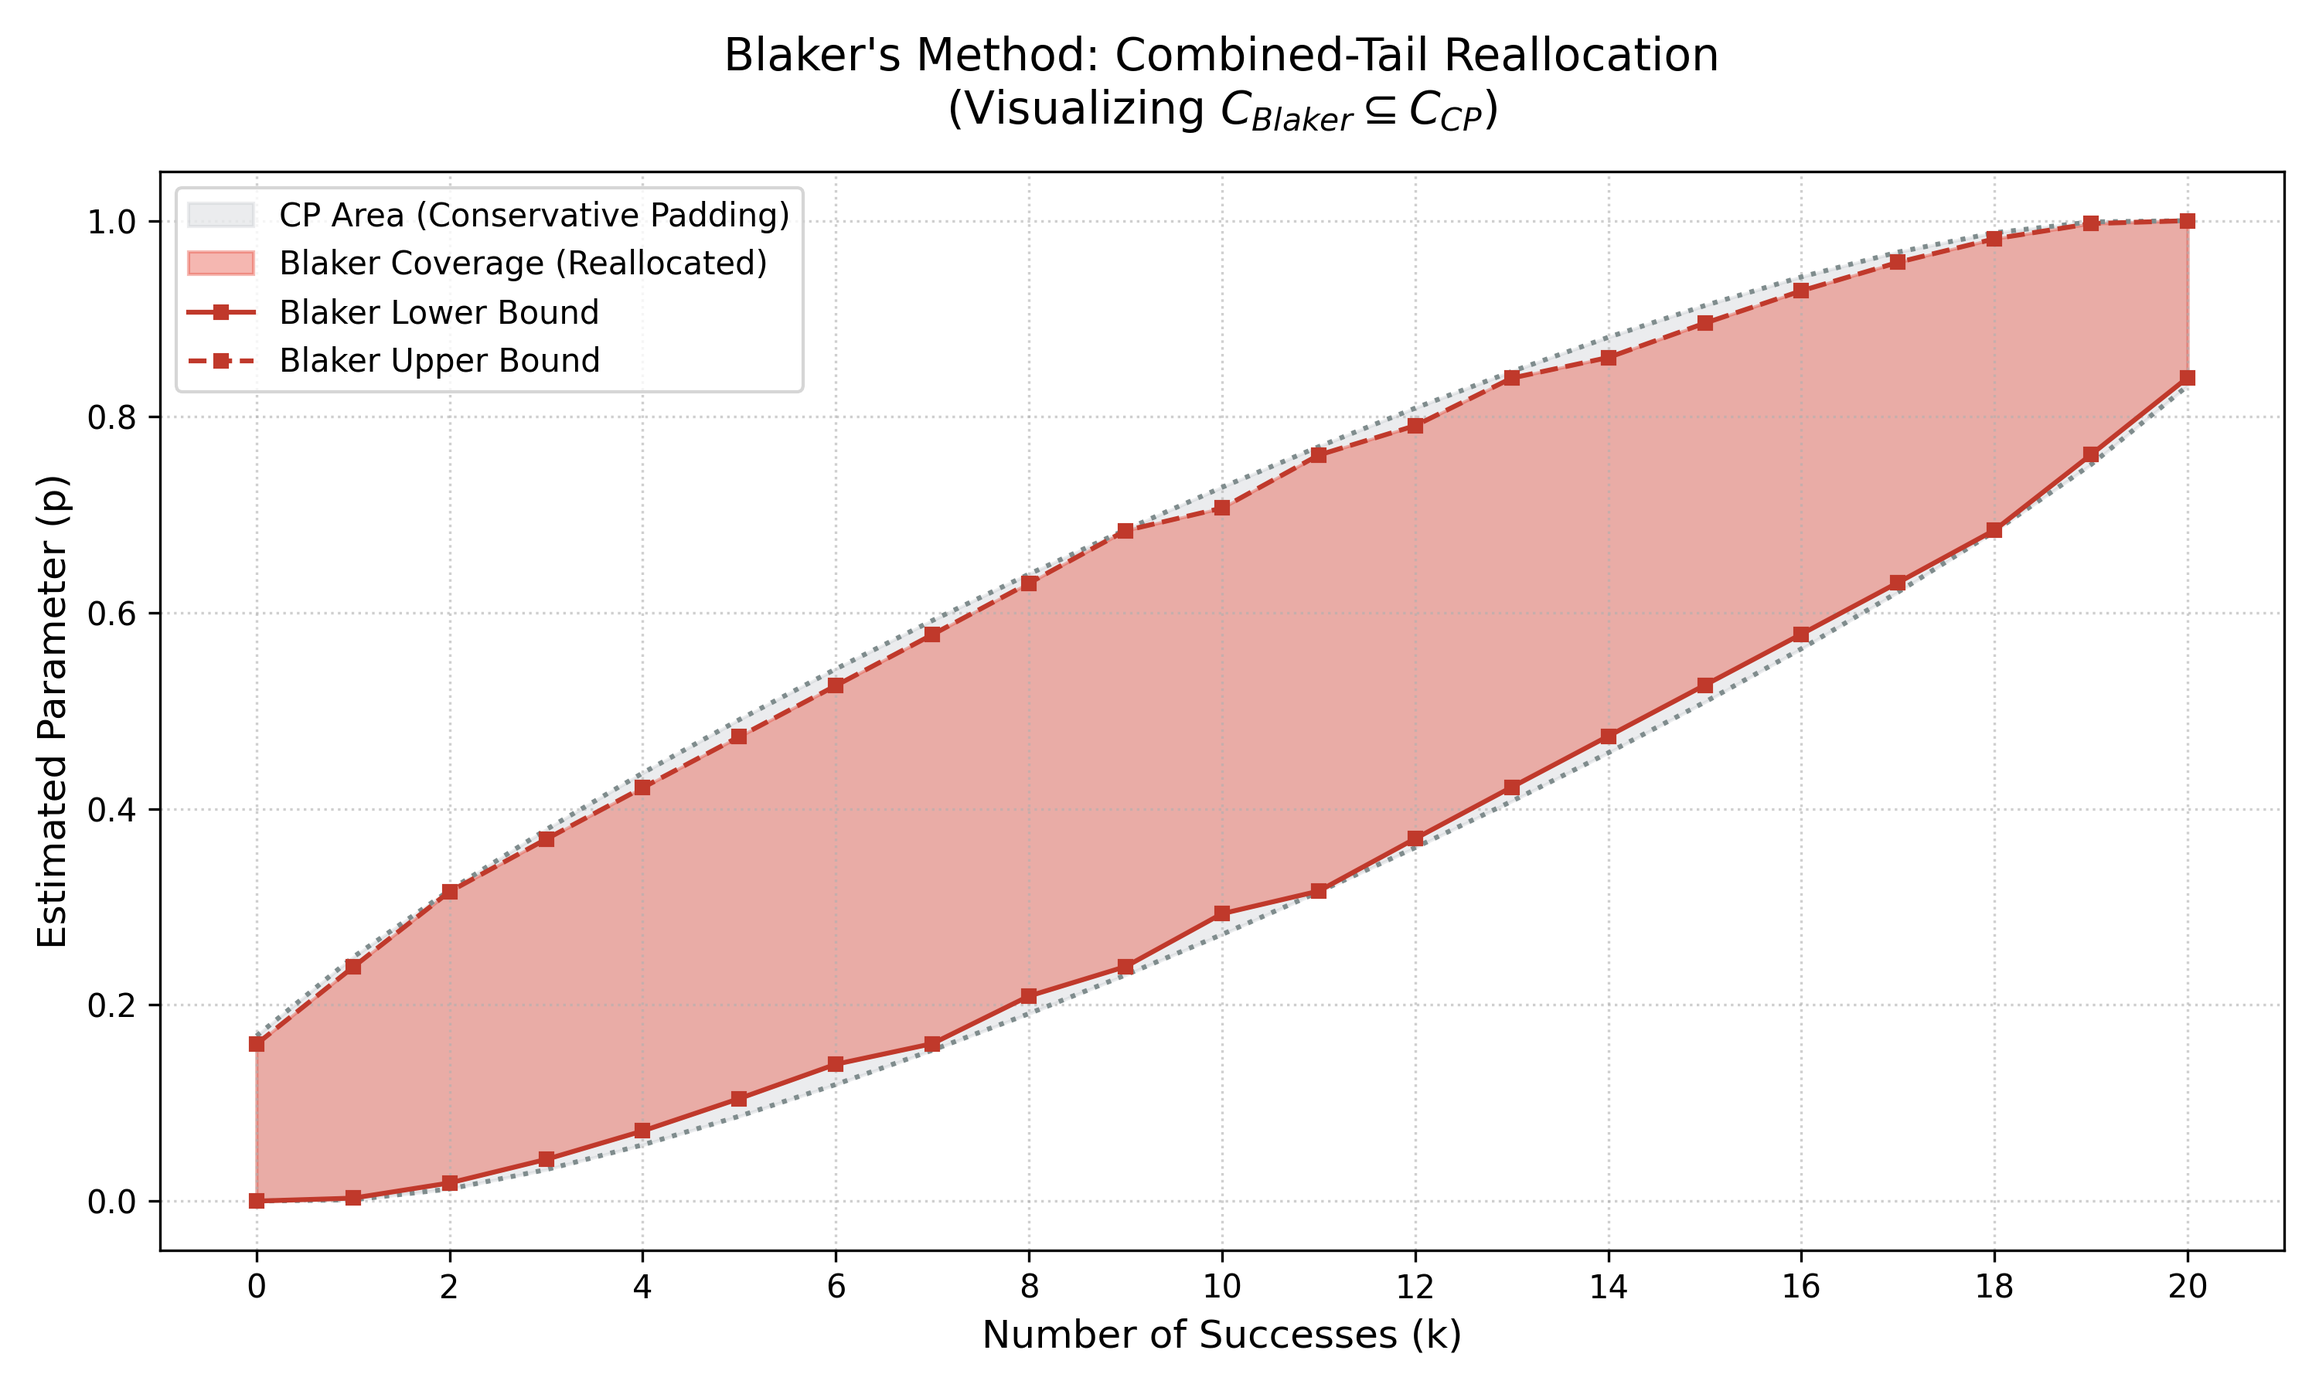
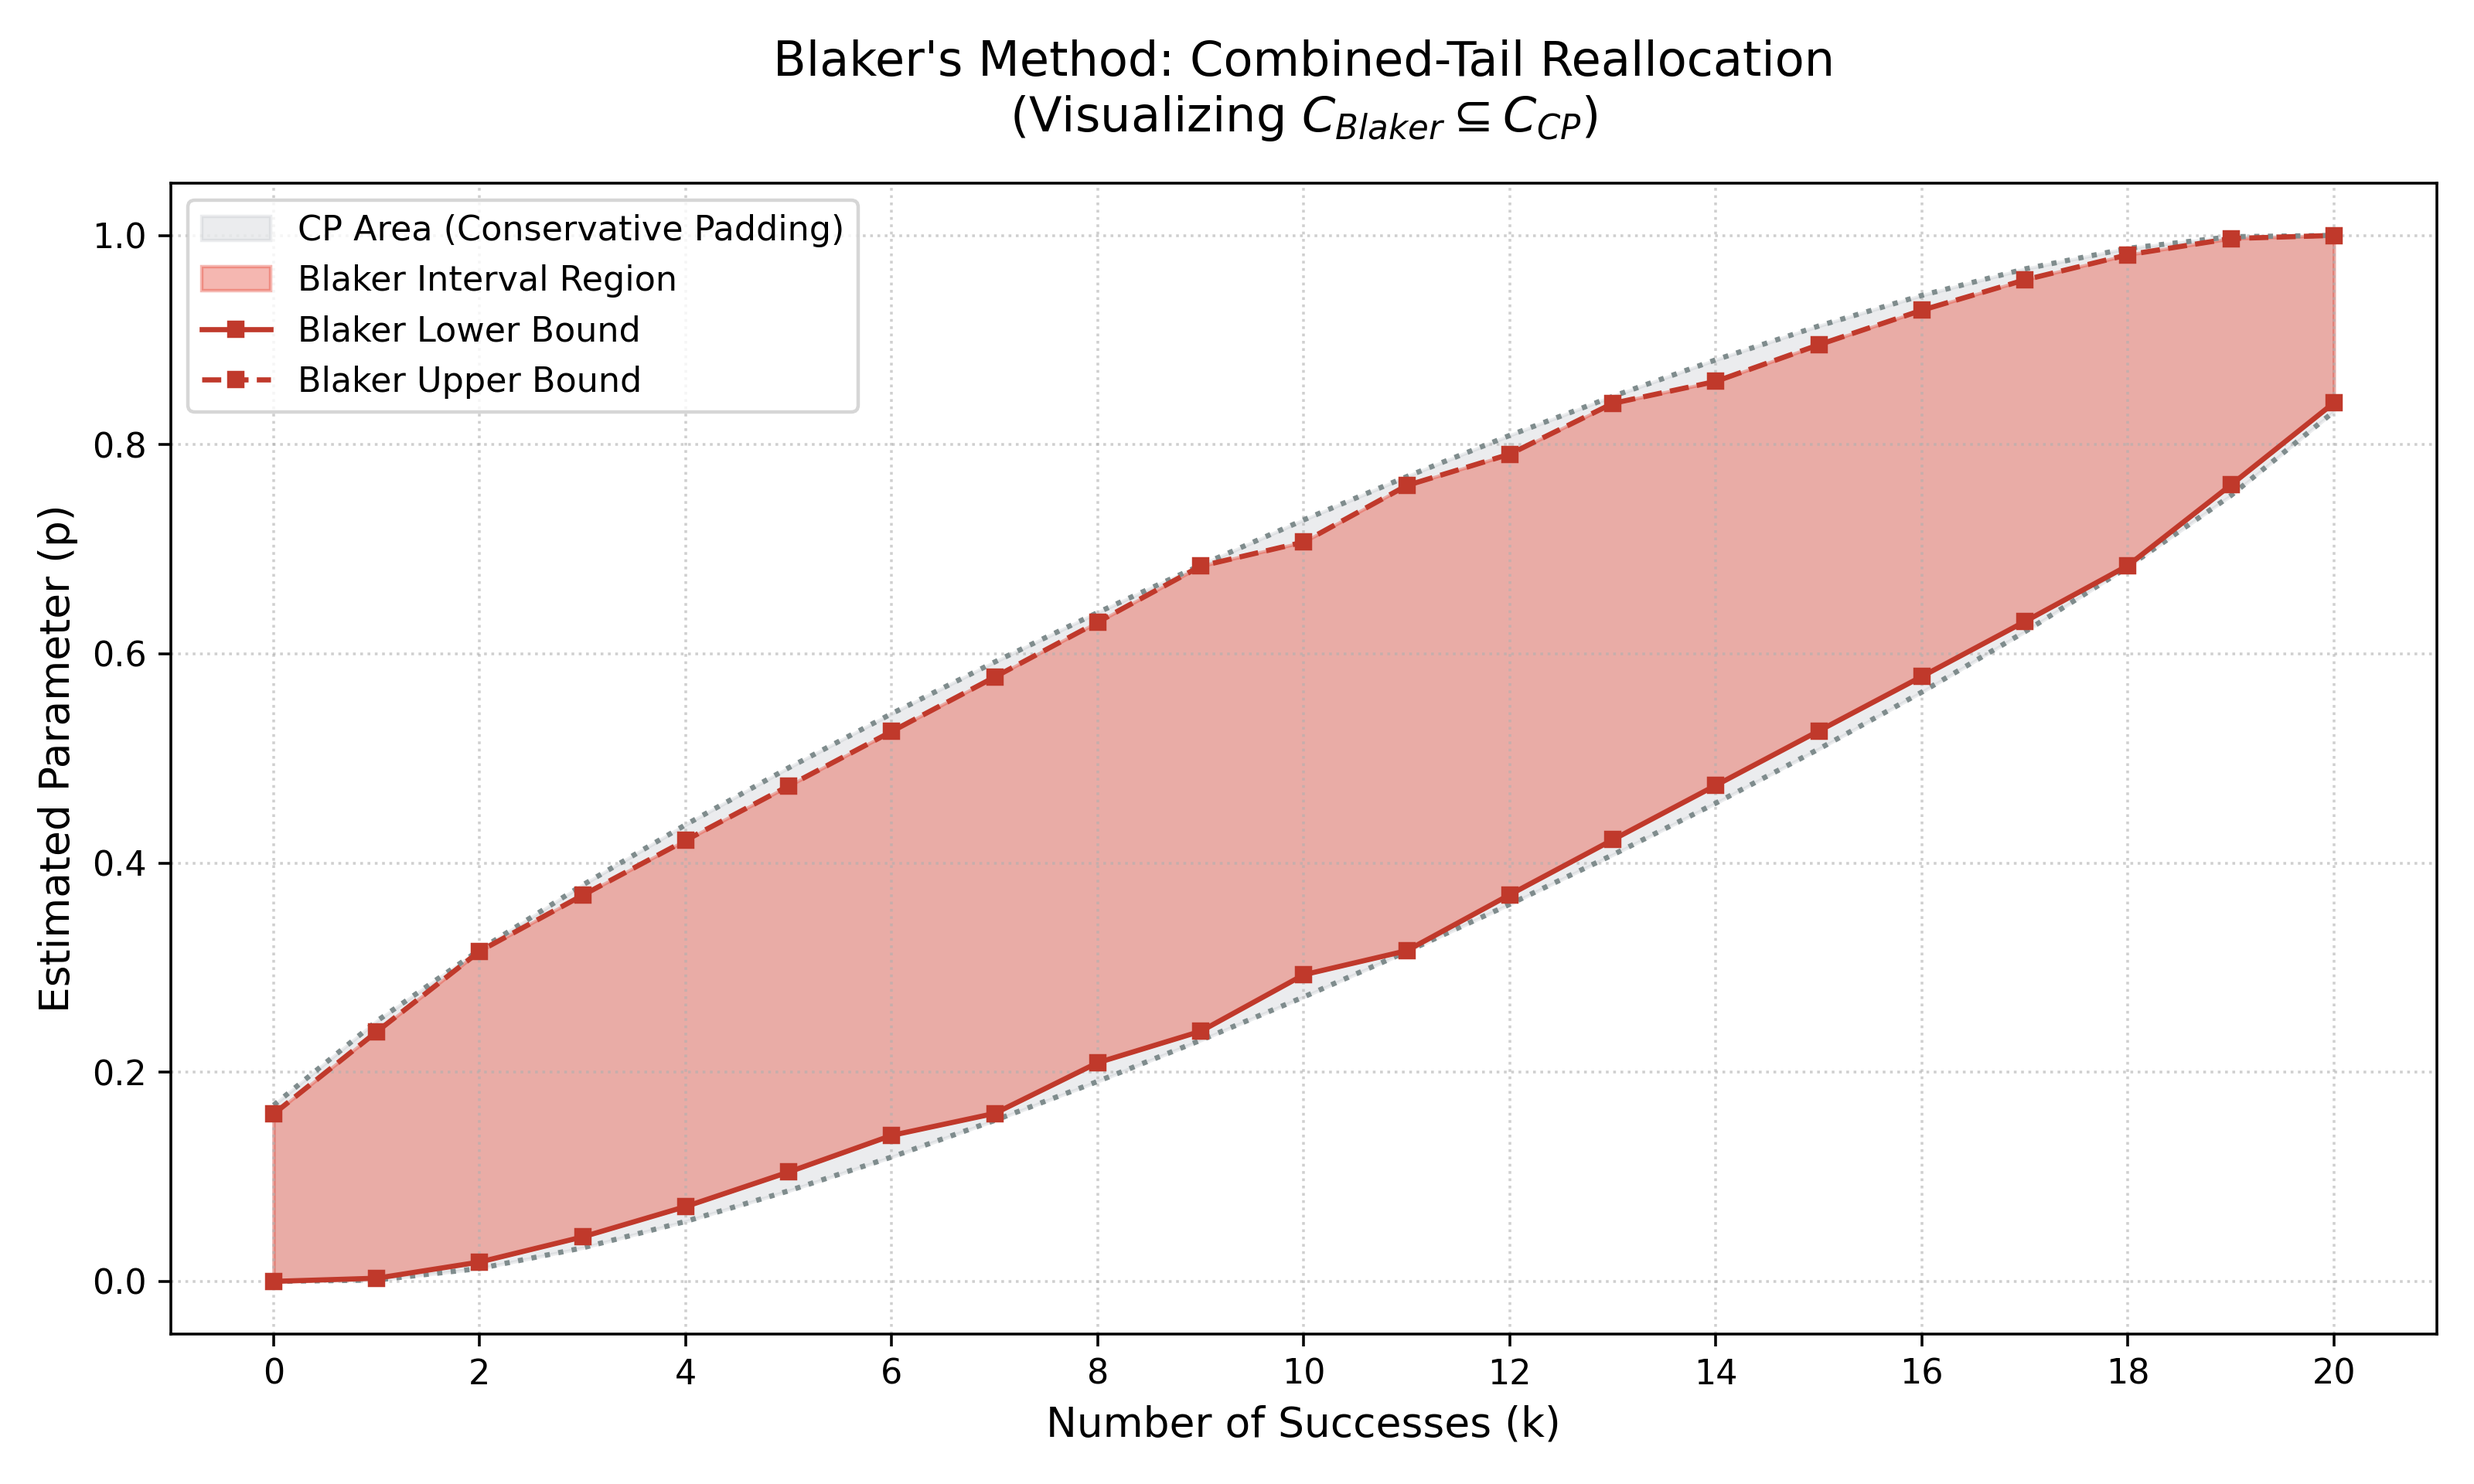
fix: update README and configuration to disable LSI index; enhance clarity in confidence intervals post

diff --git a/README.md b/README.md
@@ -3,3 +3,6 @@
 This is the new al-folio theme blog, migrated from the other blog.
 the address is the same: https://blog.faraji.info
 
+<!--
+bundle exec jekyll serve --host 0.0.0.0 --port 4000
+-->
